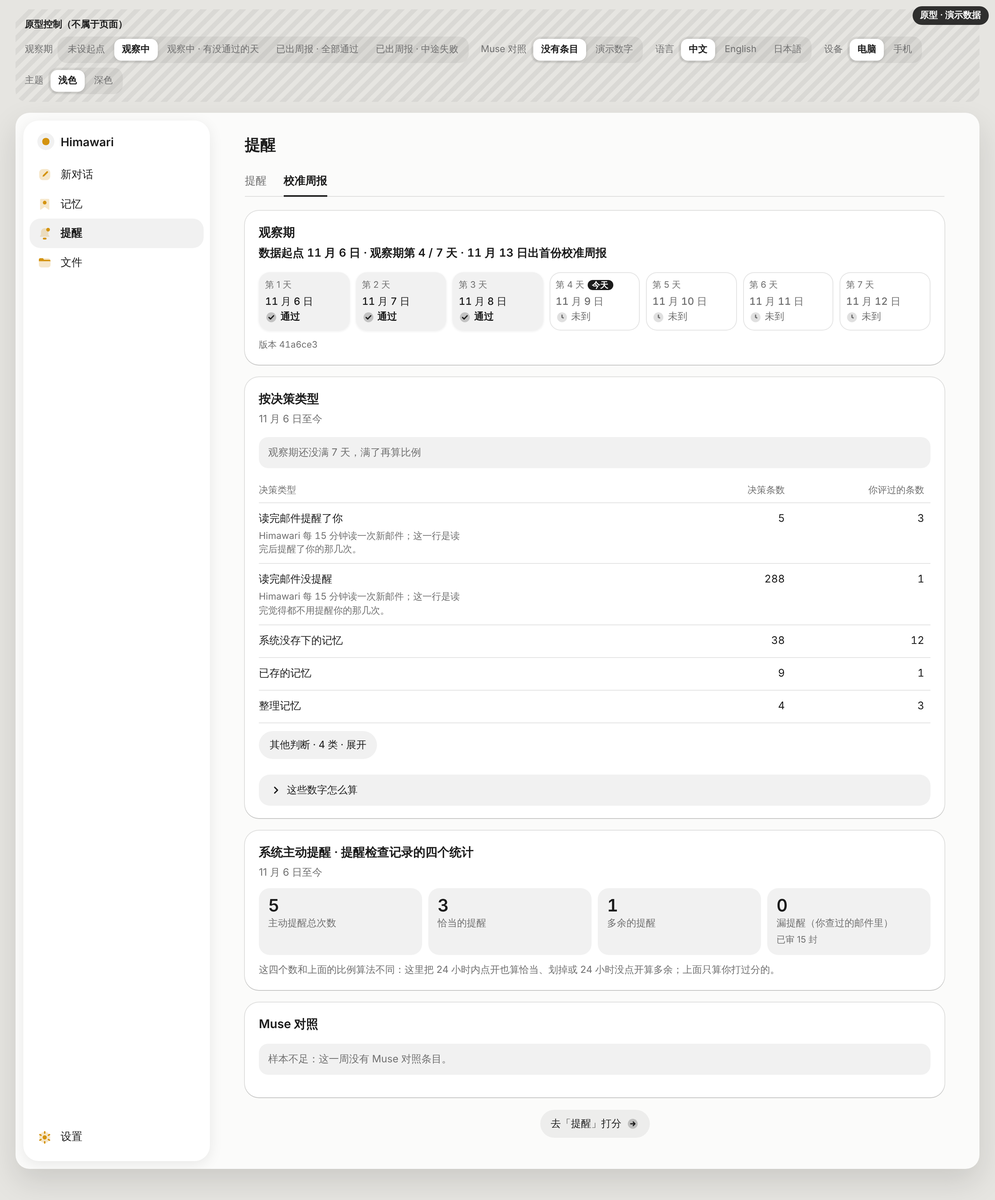
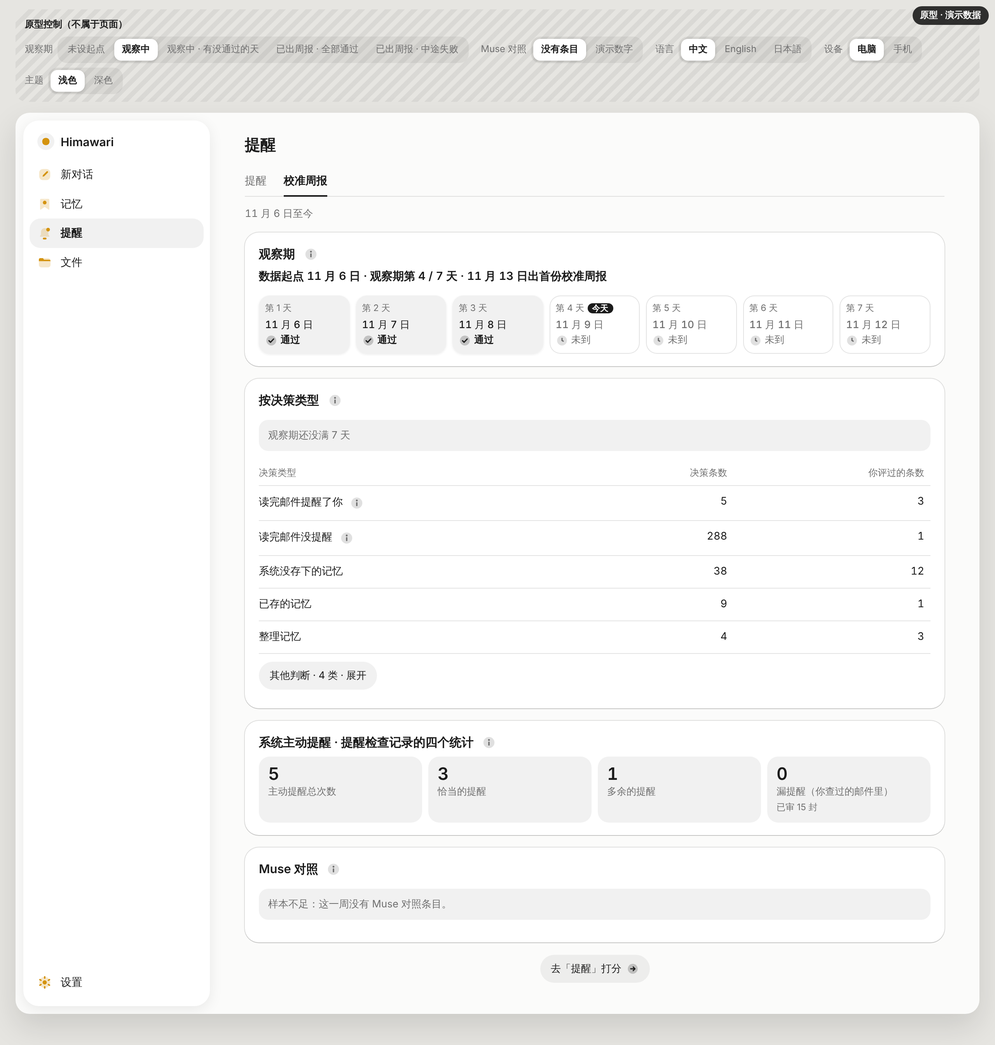
docs(design): P0-8 校准周报原型把解释文字收进 ⓘ（待 Andy 批准）
Andy 指出页面上解释性文字太多，看着乱。原型 v17 改为默认只显示标题、数字和简短状态；
两行 Gmail 决策的说明、四个提醒统计的算法说明、“这些数字怎么算”、配对率定义、观察期说明
和版本号都收进标题旁的 ⓘ（电脑弹小框，手机从底部弹出）；各区块重复的日期行去掉，只在标签
下方显示一次。390 宽窗口 361 种组合、手机模式 330 种组合（每个 ⓘ 都打开）无横向溢出；
电脑弹框 84 种组合都在可见范围内；SHA256SUMS 校验通过。只改原型目录。

Layer-0-tests: none
Fast-mode-checks: 原型自带的溢出和弹框检查，云端容器，基于 84c55d1
Docs: deferred (fast mode)

Claude-Session: https://claude.ai/code/session_014uWGaJaVS6Gc3XFFyc94id

diff --git a/docs/assets/control-center/2026-11-03-v17/weekly-report-prototype.html b/docs/assets/control-center/2026-11-03-v17/weekly-report-prototype.html
@@ -14,6 +14,7 @@ body{background:var(--page);color:var(--tx);font:400 14px/1.55 -apple-system,Bli
 button{font:inherit;color:inherit;border:0;background:none;cursor:pointer;min-height:44px;padding:0 18px;border-radius:999px}
 button:focus-visible{outline:2px solid var(--tx);outline-offset:2px}
 button:focus:not(:focus-visible){outline:none}
+[tabindex="-1"]:focus{outline:none}
 .ic{width:20px;height:20px;flex:none;display:block}
 .banner{position:fixed;top:8px;right:8px;z-index:50;pointer-events:none;background:var(--ac);color:var(--on);font-size:11.5px;font-weight:600;padding:3px 10px;border-radius:999px;opacity:.9}
 .proto{max-width:1240px;margin:0 auto 14px;padding:10px 12px;border-radius:14px;background:repeating-linear-gradient(135deg,var(--fill) 0 6px,transparent 6px 12px);font-size:12px;color:var(--mu)}
@@ -91,7 +92,6 @@ th:first-child,td:first-child{padding-left:0}
 td.num,th.num{text-align:right}
 td .iv{display:block;font-size:11.5px;color:var(--mu)}
 td.few{color:var(--mu)}
-.rd{display:block;font-size:12px;line-height:1.45;color:var(--mu);max-width:22em;margin:2px 0 0;font-weight:400}
 .rs{display:flex;flex-wrap:wrap;gap:6px 32px}
 .rs .r{min-width:0}
 .rl{color:var(--mu);margin-right:6px}
@@ -100,19 +100,25 @@ tr.sub td:first-child{padding-left:14px;color:var(--mu)}
 .otherrow td{padding:8px 0}
 .otherrow .lk{margin-top:2px}
 .tcards{display:none}
-.how{margin:12px 0 0;border-radius:14px;background:var(--fill)}
-.how summary{list-style:none;cursor:pointer;display:flex;align-items:center;gap:6px;padding:0 14px;min-height:40px;font-size:13px}
-.how summary::-webkit-details-marker{display:none}
-.how summary .ic{width:16px;height:16px;transition:transform .15s}
-.how[open] summary .ic{transform:rotate(90deg)}
-.how ul{margin:0;padding:0 16px 12px 34px;font-size:13px;color:var(--mu)}
-.how li{margin:2px 0}
+.ch{display:flex;align-items:center;gap:2px;margin:0 0 6px;min-width:0}
+.ch h2,.ch h3{margin:0;min-width:0}
+.card>.ch h2{font-size:15.5px;font-weight:600}
+.info{width:44px;height:44px;min-height:44px;padding:0;margin:-10px -8px -10px -4px;display:inline-grid;place-items:center;border-radius:50%;color:var(--mu);flex:none;vertical-align:middle}
+.info .ic{width:18px;height:18px}
+.info:hover,.info[aria-expanded=true]{background:var(--fill);color:var(--tx)}
+.rn{display:inline-flex;align-items:center}
+.win{color:var(--mu);font-size:13px;margin:-6px 0 14px;font-variant-numeric:tabular-nums}
+.pop{position:absolute;z-index:55;width:min(340px,calc(100vw - 16px));background:var(--card);border-radius:16px;box-shadow:var(--sh-up);padding:12px 14px;font-size:13px}
+.pop h3,.sheet h3{font-size:14px;margin:0 0 6px;font-weight:600}
+.itext p{margin:0 0 6px;color:var(--mu);font-size:13.5px}
+.itext ul{margin:0 0 6px;padding-left:18px;color:var(--mu);font-size:13.5px}
+.itext li{margin:2px 0}
+.itext .ver{font-size:11.5px;margin:8px 0 0}
 .stats{display:grid;grid-template-columns:repeat(4,minmax(0,1fr));gap:8px}
 .tile{background:var(--fill);border-radius:14px;padding:10px 12px;min-width:0}
 .tile .v{font-size:22px;font-weight:600;font-variant-numeric:tabular-nums;line-height:1.2}
 .tile .l{font-size:12.5px;color:var(--mu);overflow-wrap:anywhere}
 .tile .x{font-size:11.5px;color:var(--mu);margin-top:2px}
-.note{margin:10px 0 0;color:var(--mu);font-size:12.5px}
 .muse{display:grid;grid-template-columns:repeat(5,minmax(0,1fr));gap:8px}
 .musefoot{display:flex;flex-wrap:wrap;gap:4px 18px;margin:10px 0 0;font-size:13px;font-variant-numeric:tabular-nums}
 .empty{background:var(--fill);border-radius:12px;padding:10px 12px;color:var(--mu);font-size:13px}
@@ -211,8 +217,10 @@ tr.sub td:first-child{padding-left:14px;color:var(--mu)}
 <div class="banner" id="banner">原型 · 演示数据</div>
 <div class="proto" id="proto"></div>
 <div id="dev"><div class="screen" id="screen"><div class="frame" id="frame"></div></div><div id="overlay"></div></div>
+<div id="pop" hidden></div>
 <script>
 const G={
+info:'<svg class="ic" viewBox="0 0 24 24" aria-hidden="true"><circle cx="12" cy="12" r="9.5" fill="currentColor" opacity=".22"/><circle cx="12" cy="7.6" r="1.6" fill="currentColor"/><rect x="10.8" y="10.4" width="2.4" height="7" rx="1.2" fill="currentColor"/></svg>',
 check:'<svg class="ic" viewBox="0 0 24 24" aria-hidden="true"><circle cx="12" cy="12" r="9.5" fill="currentColor" opacity=".22"/><path d="M7.5 12.3l3 3 6-6.3" fill="none" stroke="currentColor" stroke-width="2.4" stroke-linecap="round" stroke-linejoin="round"/></svg>',
 fail:'<svg class="ic" viewBox="0 0 24 24" aria-hidden="true"><circle cx="12" cy="12" r="9.5" fill="currentColor" opacity=".22"/><path d="M8.6 8.6l6.8 6.8M15.4 8.6l-6.8 6.8" fill="none" stroke="currentColor" stroke-width="2.4" stroke-linecap="round"/></svg>',
 blocked:'<svg class="ic" viewBox="0 0 24 24" aria-hidden="true"><circle cx="12" cy="12" r="9.5" fill="currentColor" opacity=".22"/><rect x="8.6" y="7.5" width="2.4" height="9" rx="1.2" fill="currentColor"/><rect x="13" y="7.5" width="2.4" height="9" rx="1.2" fill="currentColor"/></svg>',
@@ -270,7 +278,7 @@ zh:{
  ratio:(p,k,n)=>`${p}（${k}/${n}）`,iv:(a,b)=>`区间 ${a}–${b}`,
  few:n=>`样本不足（${n} 条）`,
  other:n=>`其他判断 · ${n} 类`,expand:"展开",collapse:"收起",
- how:"这些数字怎么算",
+
  howItems:["分母是你评过的条数。","每一行只列这类决策可能出现的情况（例如没存下的记忆只会是“不存是对的”或“该存没存”）。","评过的少于 5 条时不算比例，写“样本不足”。","区间是 95% Wilson 区间：按你评过的条数算出的范围，真实比例有 95% 的把握落在里面；评得越多，区间越窄。"],
  typeDesc:{pushed:"Himawari 每 15 分钟读一次新邮件；这一行是读完后提醒了你的那几次。",silent:"Himawari 每 15 分钟读一次新邮件；这一行是读完觉得都不用提醒你的那几次。"},
  types:{pushed:"读完邮件提醒了你",skippedMemory:"系统没存下的记忆",keptMemory:"已存的记忆",consolidation:"整理记忆",silent:"读完邮件没提醒",pendingMemory:"待你确认的记忆",truncation:"回答时没带上的旧内容",degrade:"记忆搜索没生效",externalRead:"外部程序读取记忆"},
@@ -325,7 +333,7 @@ en:{
  ratio:(p,k,n)=>`${p} (${k}/${n})`,iv:(a,b)=>`95% range ${a}–${b}`,
  few:n=>`Too few rated (${n})`,
  other:n=>`Other decisions · ${n} types`,expand:"Show",collapse:"Hide",
- how:"How these numbers are worked out",
+
  howItems:["The denominator is the number you rated.","Each row lists only the outcomes possible for that kind of decision (for example, a memory the system chose not to save can only be “Right not to save” or “Should have saved”).","With fewer than 5 rated, no ratio is shown; it says “Too few rated”.","The range is a 95% Wilson interval: worked out from how many you rated, the true ratio falls inside it with 95% confidence. The more you rate, the narrower it gets."],
  typeDesc:{pushed:"Himawari reads new mail every 15 minutes; these are the reads after which it reminded you.",silent:"Himawari reads new mail every 15 minutes; these are the reads after which nothing needed a reminder."},
  types:{pushed:"Read mail and reminded you",skippedMemory:"Memories the system chose not to save",keptMemory:"Saved memories",consolidation:"Memory tidy-up",silent:"Read mail, no reminder",pendingMemory:"Memories awaiting your confirmation",truncation:"Older content left out of an answer",degrade:"Memory search did not work",externalRead:"Memory read by an outside program"},
@@ -380,7 +388,7 @@ ja:{
  ratio:(p,k,n)=>`${p}（${k}/${n}）`,iv:(a,b)=>`区間 ${a}–${b}`,
  few:n=>`件数不足（${n} 件）`,
  other:n=>`その他の判断 · ${n} 種類`,expand:"開く",collapse:"閉じる",
- how:"この数字の出し方",
+
  howItems:["分母は採点した件数です。","各行には、その種類の判断で起こりうる結果だけを載せます（例：システムが保存しないと判断した記憶は「保存しないのが正しかった」か「保存すべきだった」のどちらかだけ）。","採点が 5 件未満のときは割合を出さず「件数不足」と書きます。","区間は 95% Wilson 区間です。採点した件数から出した範囲で、本当の割合は 95% の確かさでこの中に入ります。採点が多いほど狭くなります。"],
  typeDesc:{pushed:"Himawari は 15 分ごとに新着メールを読みます。読んだ後に通知した回です。",silent:"Himawari は 15 分ごとに新着メールを読みます。読んだ後、通知が必要なものがなかった回です。"},
  types:{pushed:"メールを読んで通知した",skippedMemory:"システムが保存しないと判断した記憶",keptMemory:"保存した記憶",consolidation:"記憶の整理",silent:"メールを読んで通知しなかった",pendingMemory:"確認待ちの記憶",truncation:"回答に入れなかった古い内容",degrade:"記憶検索が働かなかった",externalRead:"外部プログラムによる記憶の読み取り"},
@@ -394,8 +402,11 @@ ja:{
  museDef:"対応づけ率 = 同じメールに対応づけできた項目 ÷ 今週の Muse との対照の項目すべて。",
  goRate:"「リマインダー」で採点する"
 }};
+Object.assign(L.zh,{info:"说明",obsShort:"选一天开始，连续观察 7 天。",badLine:(a,b)=>`${a}失败、${b}没有检查记录`,badMore:"修好后从第二天起重新数 7 天，首份校准周报跟着推后。",notFull:"观察期还没满 7 天",notFullMore:"观察期满 7 天后再按决策类型算比例。",notStarted:"还没开始观察",notStartedMore:"设好数据起点、观察满 7 天后，这里按决策类型算比例。"});
+Object.assign(L.en,{info:"About this",obsShort:"Pick a day to start; it observes 7 days in a row.",badLine:(a,b)=>`${a} failed; ${b} has no check record`,badMore:"Once fixed, the 7 days start over from the next day, and the first calibration report moves later.",notFull:"Observation period not yet 7 days",notFullMore:"Ratios by decision type come once the observation period reaches 7 days.",notStarted:"Observation hasn’t started",notStartedMore:"Once the data start is set and 7 days are observed, ratios by decision type appear here."});
+Object.assign(L.ja,{info:"説明",obsShort:"開始日を選ぶと、7 日間続けて観察します。",badLine:(a,b)=>`${a}は不合格、${b}は確認の記録なし`,badMore:"直したら翌日から 7 日を数え直し、最初の較正レポートもその分遅れます。",notFull:"観察期間はまだ 7 日に達していません",notFullMore:"観察期間が 7 日に達したら、判断の種類ごとの割合を出します。",notStarted:"まだ観察を始めていません",notStartedMore:"データの起点を決めて 7 日間観察すると、ここに判断の種類ごとの割合が出ます。"});
 const LOC={zh:"zh-CN",en:"en",ja:"ja"};
-const ST={device:"desktop",state:"b1",muse:"none",lang:"zh",theme:"light",tab:"report",openDay:null,otherOpen:false,howOpen:false,confirm:false,pick:6,start:6};
+const ST={info:null,device:"desktop",state:"b1",muse:"none",lang:"zh",theme:"light",tab:"report",openDay:null,otherOpen:false,confirm:false,pick:6,start:6};
 const T=()=>L[ST.lang];
 const day=n=>new Date(2026,10,n);
 function fd(n){const d=day(n);if(ST.lang==="zh")return `${d.getMonth()+1} 月 ${d.getDate()} 日`;return new Intl.DateTimeFormat(LOC[ST.lang],{month:ST.lang==="en"?"short":"numeric",day:"numeric"}).format(d)}
@@ -438,10 +449,23 @@ function cellsHTML(d){const t=T();return `<div class="days">${d.cells.map((c,i)=
  return `<button type="button" class="cell ${s}" data-day="${i}" aria-expanded="${ST.openDay===i}">${lab}</button>`}).join("")}</div>`}
 function checksHTML(list){const t=T();return `<ul class="checks">${list.map(([k,key,a,b])=>{const f=t.ck[key];const txt=typeof f==="function"?f(a,b):f;const g=k==="ok"?G.check:k==="fail"?G.fail:G.blocked;return `<li class="${k}">${g}<span>${txt}</span></li>`}).join("")}</ul>`}
 function detailTitle(d,i){const t=T(),c=d.cells[i];return t.detailTitle(i+1,fd(d.start+i),t.st[c[0]])}
+function infoBtn(key){const t=T();return `<button type="button" class="info" data-info="${key}" aria-label="${t.info}" aria-haspopup="dialog" aria-expanded="${ST.info===key}">${G.info}</button>`}
+function head(title,key,tag){return `<div class="ch"><${tag||"h2"}>${title}</${tag||"h2"}>${infoBtn(key)}</div>`}
+function infoData(key){
+ const t=T(),k=stateInfo().kind;
+ if(key==="obs"){const p=[t.obsExplain];if(ST.state==="a")p.push(t.confirmEarliest(fd(6),fd(5)),t.confirmFixed);if(ST.state==="b2")p.push(t.badMore);return {title:t.obsTitle,paras:p,list:[],ver:t.version("41a6ce3")}}
+ if(key==="type"){if(k==="none"||k==="wait")return {title:t.typeTitle,paras:[t.notStartedMore],list:[]};return {title:t.typeTitle,paras:k==="part"?[t.notFullMore]:[],list:t.howItems}}
+ if(key==="stats")return {title:t.statTitle,paras:[t.statNote],list:[]};
+ if(key==="muse")return {title:t.museTitle,paras:[t.museDef],list:[]};
+ if(key.startsWith("row:")){const x=key.slice(4);return {title:t.types[x],paras:[t.typeDesc[x]],list:[]}}
+ return null;
+}
+function infoBody(d){return `${d.paras.map(p=>`<p>${p}</p>`).join("")}${d.list.length?`<ul>${d.list.map(x=>`<li>${x}</li>`).join("")}</ul>`:""}${d.ver?`<p class="ver">${d.ver}</p>`:""}`}
+function windowLine(){const t=T(),k=stateInfo().kind;if(k==="done"){const d=DAYS[ST.state];return t.scopeDone(fd(d.start),fd(d.start+6))}if(k==="part")return t.scopeIn(fd(DAYS[ST.state].start));return t.scopeLast7}
 function obsCard(){
- const t=T();let h=`<section class="card"><h2>${t.obsTitle}</h2>`;
+ const t=T();let h=`<section class="card">${head(t.obsTitle,"obs")}`;
  if(ST.state==="a"){
-  h+=`<p class="sub">${t.obsExplain}</p><div class="datef"><label id="sl">${t.startLabel}</label><span class="stepper" role="group" aria-labelledby="sl"><button type="button" data-step="-1" aria-label="${t.prevDay}" ${ST.pick<=6?"disabled":""}>${G.chevl}</button><output>${fd(ST.pick)} · ${fw(ST.pick)}</output><button type="button" data-step="1" aria-label="${t.nextDay}">${G.chev}</button></span><button type="button" class="bp" data-act="start">${t.startBtn}</button></div>`;
+  h+=`<p class="sub">${t.obsShort}</p><div class="datef"><label id="sl">${t.startLabel}</label><span class="stepper" role="group" aria-labelledby="sl"><button type="button" data-step="-1" aria-label="${t.prevDay}" ${ST.pick<=6?"disabled":""}>${G.chevl}</button><output>${fd(ST.pick)} · ${fw(ST.pick)}</output><button type="button" data-step="1" aria-label="${t.nextDay}">${G.chev}</button></span><button type="button" class="bp" data-act="start">${t.startBtn}</button></div>`;
  } else if(ST.state==="b0"){
   h+=`<p class="headline">${t.headWait(fd(ST.start),fd(ST.start+7))}</p>`;
   h+=cellsHTML({start:ST.start,today:5,cells:Array(7).fill(["future"])});
@@ -456,40 +480,38 @@ function obsCard(){
   if(ST.state==="c1")h+=`<div class="line ok">${G.check}<span>${t.allPass}</span></div>`;
   if(ST.state==="c2")h+=`<div class="line warn">${G.fail}<span>${t.restart(fd(9),4)}</span></div>`;
  }
- h+=`<p class="ver">${t.version("41a6ce3")}</p></section>`;return h;
+ return h+`</section>`;
 }
 function ratioCells(x,r){const t=T();const [,rev,ks]=r;if(rev<5)return {few:t.few(rev)};const labels=t.rl[LBL[x]];return {vals:ks.map((k,i)=>{const [lo,hi]=wilson(k,rev);return {label:labels[i],main:t.ratio(pct(k/rev),k,rev),iv:t.iv(pct(lo),pct(hi))}})}}
+function rowName(x){const t=T();return t.typeDesc[x]?`<span class="rn">${t.types[x]}${infoBtn("row:"+x)}</span>`:t.types[x]}
+function cardHead(x){const t=T();return t.typeDesc[x]?head(t.types[x],"row:"+x,"h3"):`<h3>${t.types[x]}</h3>`}
 function tableCard(){
  const t=T(),k=stateInfo().kind,nf=n=>new Intl.NumberFormat(LOC[ST.lang]).format(n);
- let h=`<section class="card"><h2>${t.typeTitle}</h2>`;
+ let h=`<section class="card">${head(t.typeTitle,"type")}`;
  if(k==="none"||k==="wait"){h+=`<p class="empty">${t.notStarted}</p></section>`;return h}
- const d=DAYS[ST.state];
  const rows=MAIN.map(x=>[x,0]).concat(ST.otherOpen?OTHER.map(x=>[x,1]):[]);
  if(k==="part"){
-  h+=`<p class="sub">${t.scopeIn(fd(d.start))}</p><p class="empty">${t.notFull}</p>`;
-  h+=`<table><thead><tr><th>${t.cols[0]}</th><th class="num">${t.cols[1]}</th><th class="num">${t.cols[2]}</th></tr></thead><tbody>${rows.map(([x,sub])=>`<tr class="${sub?"sub":""}"><td>${t.types[x]}${t.typeDesc[x]?`<span class="rd">${t.typeDesc[x]}</span>`:""}</td><td class="num">${nf(TD.part[x][0])}</td><td class="num">${nf(TD.part[x][1])}</td></tr>`).join("")}<tr class="otherrow"><td colspan="3">${otherBtn()}</td></tr></tbody></table>`;
-  h+=`<div class="tcards">${rows.map(([x])=>`<div class="tc"><h3>${t.types[x]}</h3>${t.typeDesc[x]?`<p class="rd">${t.typeDesc[x]}</p>`:""}<div class="m"><span>${t.cols[1]}</span><span>${nf(TD.part[x][0])}</span></div><div class="m"><span>${t.cols[2]}</span><span>${nf(TD.part[x][1])}</span></div></div>`).join("")}${otherBtn()}</div>`;
-  h+=howBlock()+`</section>`;return h;
+  h+=`<p class="empty">${t.notFull}</p>`;
+  h+=`<table><thead><tr><th>${t.cols[0]}</th><th class="num">${t.cols[1]}</th><th class="num">${t.cols[2]}</th></tr></thead><tbody>${rows.map(([x,sub])=>`<tr class="${sub?"sub":""}"><td>${rowName(x)}</td><td class="num">${nf(TD.part[x][0])}</td><td class="num">${nf(TD.part[x][1])}</td></tr>`).join("")}<tr class="otherrow"><td colspan="3">${otherBtn()}</td></tr></tbody></table>`;
+  h+=`<div class="tcards">${rows.map(([x])=>`<div class="tc">${cardHead(x)}<div class="m"><span>${t.cols[1]}</span><span>${nf(TD.part[x][0])}</span></div><div class="m"><span>${t.cols[2]}</span><span>${nf(TD.part[x][1])}</span></div></div>`).join("")}${otherBtn()}</div>`;
+  return h+`</section>`;
  }
- h+=`<p class="sub">${t.scopeDone(fd(d.start),fd(d.start+6))}</p>`;
- h+=`<table><thead><tr><th>${t.cols[0]}</th><th class="num">${t.cols[1]}</th><th class="num">${t.cols[2]}</th><th>${t.cols[3]}</th></tr></thead><tbody>${rows.map(([x,sub])=>{const r=TD.done[x],rc=ratioCells(x,r);return `<tr class="${sub?"sub":""}"><td>${t.types[x]}${t.typeDesc[x]?`<span class="rd">${t.typeDesc[x]}</span>`:""}</td><td class="num">${nf(r[0])}</td><td class="num">${nf(r[1])}</td>${rc.few?`<td class="few">${rc.few}</td>`:`<td><div class="rs">${rc.vals.map(v=>`<div class="r"><span class="rl">${v.label}</span>${v.main}<span class="iv">${v.iv}</span></div>`).join("")}</div></td>`}</tr>`}).join("")}<tr class="otherrow"><td colspan="4">${otherBtn()}</td></tr></tbody></table>`;
- h+=`<div class="tcards">${rows.map(([x])=>{const r=TD.done[x],rc=ratioCells(x,r);return `<div class="tc"><h3>${t.types[x]}</h3>${t.typeDesc[x]?`<p class="rd">${t.typeDesc[x]}</p>`:""}<div class="m"><span>${t.cols[1]}</span><span>${nf(r[0])}</span></div><div class="m"><span>${t.cols[2]}</span><span>${nf(r[1])}</span></div>${rc.few?`<div class="m few"><span>${t.cols[3]}</span><span>${rc.few}</span></div>`:rc.vals.map(v=>`<div class="m"><span>${v.label}</span><span>${v.main}<span class="iv">${v.iv}</span></span></div>`).join("")}</div>`}).join("")}${otherBtn()}</div>`;
- h+=howBlock()+`</section>`;return h;
+ h+=`<table><thead><tr><th>${t.cols[0]}</th><th class="num">${t.cols[1]}</th><th class="num">${t.cols[2]}</th><th>${t.cols[3]}</th></tr></thead><tbody>${rows.map(([x,sub])=>{const r=TD.done[x],rc=ratioCells(x,r);return `<tr class="${sub?"sub":""}"><td>${rowName(x)}</td><td class="num">${nf(r[0])}</td><td class="num">${nf(r[1])}</td>${rc.few?`<td class="few">${rc.few}</td>`:`<td><div class="rs">${rc.vals.map(v=>`<div class="r"><span class="rl">${v.label}</span>${v.main}<span class="iv">${v.iv}</span></div>`).join("")}</div></td>`}</tr>`}).join("")}<tr class="otherrow"><td colspan="4">${otherBtn()}</td></tr></tbody></table>`;
+ h+=`<div class="tcards">${rows.map(([x])=>{const r=TD.done[x],rc=ratioCells(x,r);return `<div class="tc">${cardHead(x)}<div class="m"><span>${t.cols[1]}</span><span>${nf(r[0])}</span></div><div class="m"><span>${t.cols[2]}</span><span>${nf(r[1])}</span></div>${rc.few?`<div class="m few"><span>${t.cols[3]}</span><span>${rc.few}</span></div>`:rc.vals.map(v=>`<div class="m"><span>${v.label}</span><span>${v.main}<span class="iv">${v.iv}</span></span></div>`).join("")}</div>`}).join("")}${otherBtn()}</div>`;
+ return h+`</section>`;
 }
 function otherBtn(){const t=T();return `<button type="button" class="lk" data-act="other" aria-expanded="${ST.otherOpen}">${t.other(OTHER.length)} · ${ST.otherOpen?t.collapse:t.expand}</button>`}
-function howBlock(){const t=T();return `<details class="how" ${ST.howOpen?"open":""}><summary>${G.chev}${t.how}</summary><ul>${t.howItems.map(x=>`<li>${x}</li>`).join("")}</ul></details>`}
 function statsCard(){
  const t=T(),k=stateInfo().kind,key=k==="done"?"done":k==="part"?"part":"none",v=STATS[key],nf=n=>new Intl.NumberFormat(LOC[ST.lang]).format(n);
- let scope=t.scopeLast7;if(k==="done"){const d=DAYS[ST.state];scope=t.scopeDone(fd(d.start),fd(d.start+6))}if(k==="part")scope=t.scopeIn(fd(DAYS[ST.state].start));
- return `<section class="card"><h2>${t.statTitle}</h2><p class="sub">${scope}</p><div class="stats"><div class="tile"><div class="v">${nf(v[0])}</div><div class="l">${t.m.spoke}</div></div><div class="tile"><div class="v">${nf(v[1])}</div><div class="l">${t.m.hits}</div></div><div class="tile"><div class="v">${nf(v[2])}</div><div class="l">${t.m.misfires}</div></div><div class="tile"><div class="v">${nf(v[3])}</div><div class="l">${t.m.missed}</div><div class="x">${t.m.reviewed(nf(v[4]))}</div></div></div><p class="note">${t.statNote}</p></section>`;
+ return `<section class="card">${head(t.statTitle,"stats")}<div class="stats"><div class="tile"><div class="v">${nf(v[0])}</div><div class="l">${t.m.spoke}</div></div><div class="tile"><div class="v">${nf(v[1])}</div><div class="l">${t.m.hits}</div></div><div class="tile"><div class="v">${nf(v[2])}</div><div class="l">${t.m.misfires}</div></div><div class="tile"><div class="v">${nf(v[3])}</div><div class="l">${t.m.missed}</div><div class="x">${t.m.reviewed(nf(v[4]))}</div></div></div></section>`;
 }
 function museCard(){
  const t=T(),nf=n=>new Intl.NumberFormat(LOC[ST.lang]).format(n);
- let h=`<section class="card"><h2>${t.museTitle}</h2>`;
+ let h=`<section class="card">${head(t.museTitle,"muse")}`;
  if(ST.muse==="none"){h+=`<p class="empty">${t.museEmpty}</p></section>`;return h}
  const m=MUSE,total=m.both+m.museOnly+m.himaOnly+m.neither+m.noRec+m.unpaired,paired=total-m.unpaired;
  h+=`<div class="muse">${["both","museOnly","himaOnly","neither","noRec"].map(x=>`<div class="tile"><div class="v">${nf(m[x])}</div><div class="l">${t.mu[x]}</div></div>`).join("")}</div>`;
- h+=`<div class="musefoot"><span>${t.mu.unpaired} <b>${nf(m.unpaired)}</b></span><span>${t.mu.rate} <b>${t.ratio(pct(paired/total),paired,total)}</b></span></div><p class="note">${t.museDef}</p></section>`;
+ h+=`<div class="musefoot"><span>${t.mu.unpaired} <b>${nf(m.unpaired)}</b></span><span>${t.mu.rate} <b>${t.ratio(pct(paired/total),paired,total)}</b></span></div></section>`;
  return h;
 }
 function isPhone(){return ST.device==="phone"||window.matchMedia("(max-width:640px)").matches}
@@ -498,35 +520,42 @@ function renderFrame(){
  document.getElementById("banner").textContent=t.banner;
  let body;
  if(ST.tab==="rem")body=`<p class="stub">${t.stub}</p>`;
- else body=obsCard()+tableCard()+statsCard()+museCard()+`<div class="foot"><button type="button" class="lk" data-act="goRem">${t.goRate}${G.arrow}</button></div>`;
+ else body=`<p class="win">${windowLine()}</p>`+obsCard()+tableCard()+statsCard()+museCard()+`<div class="foot"><button type="button" class="lk" data-act="goRem">${t.goRate}${G.arrow}</button></div>`;
  document.getElementById("frame").innerHTML=`${side()}<main class="main"><div class="inner"><div class="top"><button type="button" class="rb" aria-label="menu">${G.menu}</button><b class="ttl">${t.title}</b><span class="rb ghost"></span></div><h1>${t.title}</h1><div class="tabs" role="tablist"><button type="button" role="tab" data-tab="rem" aria-selected="${ST.tab==="rem"}">${t.tabRem}</button><button type="button" role="tab" data-tab="report" aria-selected="${ST.tab==="report"}">${t.tabRep}</button></div>${body}</div></main>`;
  renderOverlay();
 }
 function renderOverlay(){
- const t=T(),o=document.getElementById("overlay");
+ const t=T(),o=document.getElementById("overlay"),pop=document.getElementById("pop");pop.innerHTML="";pop.hidden=true;
  if(ST.confirm){o.innerHTML=`<div class="scrim" data-act="cancel"></div><div class="dlg" role="dialog" aria-modal="true" tabindex="-1"><div class="grab"></div><h3>${t.confirmTitle(fd(ST.pick))}</h3><p class="strong">${t.confirmFixed}</p><p>${t.confirmEarliest(fd(6),fd(5))}</p><div class="br"><button type="button" class="bs" data-act="cancel">${t.cancel}</button><button type="button" class="bp" data-act="ok">${t.confirm}</button></div></div>`;o.querySelector(".dlg").focus();return}
- if(ST.openDay!==null&&isPhone()&&DAYS[ST.state]){const d=DAYS[ST.state],c=d.cells[ST.openDay];o.innerHTML=`<div class="scrim" data-act="closeDay"></div><div class="sheet" role="dialog" aria-modal="true" tabindex="-1"><div class="grab"></div><h3>${detailTitle(d,ST.openDay)}</h3>${checksHTML(c[1])}<button type="button" class="bs wide" data-act="closeDay">${t.closeSheet}</button></div>`;o.querySelector(".sheet").focus();return}
+ const d=ST.info&&ST.tab==="report"?infoData(ST.info):null;
+ if(d&&isPhone()){o.innerHTML=`<div class="scrim" data-act="closeInfo"></div><div class="sheet" role="dialog" aria-modal="true" tabindex="-1"><div class="grab"></div><h3>${d.title}</h3><div class="itext">${infoBody(d)}</div><button type="button" class="bs wide" data-act="closeInfo">${t.closeSheet}</button></div>`;o.querySelector(".sheet").focus();return}
+ if(d){const btn=[...document.querySelectorAll(`[data-info="${ST.info}"]`)].find(b=>b.offsetParent!==null);if(btn){pop.hidden=false;pop.innerHTML=`<div class="pop" role="dialog" tabindex="-1"><h3>${d.title}</h3><div class="itext">${infoBody(d)}</div></div>`;const el=pop.firstChild,r=btn.getBoundingClientRect(),w=el.offsetWidth;el.style.top=(r.bottom+window.scrollY+2)+"px";el.style.left=Math.max(8,Math.min(r.left+window.scrollX-12,document.documentElement.clientWidth-w-8))+"px";el.focus({preventScroll:true})}}
+ if(ST.openDay!==null&&isPhone()&&DAYS[ST.state]){const dd=DAYS[ST.state],c=dd.cells[ST.openDay];o.innerHTML=`<div class="scrim" data-act="closeDay"></div><div class="sheet" role="dialog" aria-modal="true" tabindex="-1"><div class="grab"></div><h3>${detailTitle(dd,ST.openDay)}</h3>${checksHTML(c[1])}<button type="button" class="bs wide" data-act="closeDay">${t.closeSheet}</button></div>`;o.querySelector(".sheet").focus();return}
  o.innerHTML="";
 }
 function render(){renderProto();renderFrame()}
 document.addEventListener("click",e=>{
- const p=e.target.closest("[data-p]");if(p){ST[p.dataset.p]=p.dataset.v;if(p.dataset.p==="state"){ST.openDay=null;ST.confirm=false;ST.tab="report"}render();return}
- const tb=e.target.closest("[data-tab]");if(tb){ST.tab=tb.dataset.tab;ST.openDay=null;render();return}
+ let closed=false;if(ST.info&&!e.target.closest(".pop,.sheet,[data-info]")){ST.info=null;closed=true}
+ const p=e.target.closest("[data-p]");if(p){ST[p.dataset.p]=p.dataset.v;if(p.dataset.p==="state"){ST.openDay=null;ST.confirm=false;ST.info=null;ST.tab="report"}render();return}
+ const inf=e.target.closest("[data-info]");if(inf){ST.info=ST.info===inf.dataset.info?null:inf.dataset.info;ST.openDay=null;render();return}
+ const tb=e.target.closest("[data-tab]");if(tb){ST.tab=tb.dataset.tab;ST.openDay=null;ST.info=null;render();return}
  const dy=e.target.closest("[data-day]");if(dy){const i=+dy.dataset.day;ST.openDay=ST.openDay===i?null:i;render();return}
  const st=e.target.closest("[data-step]");if(st){ST.pick=Math.max(6,ST.pick+ +st.dataset.step);render();return}
- const a=e.target.closest("[data-act]");if(!a)return;const act=a.dataset.act;
+ const a=e.target.closest("[data-act]");if(!a){if(closed)render();return}const act=a.dataset.act;
  if(act==="start")ST.confirm=true;
  if(act==="cancel")ST.confirm=false;
  if(act==="ok"){ST.confirm=false;ST.start=ST.pick;ST.state="b0"}
  if(act==="closeDay")ST.openDay=null;
+ if(act==="closeInfo")ST.info=null;
  if(act==="other")ST.otherOpen=!ST.otherOpen;
  if(act==="goRem"){ST.tab="rem";window.scrollTo(0,0);document.getElementById("screen").scrollTop=0}
  render();
 });
-document.addEventListener("toggle",e=>{if(e.target.classList&&e.target.classList.contains("how"))ST.howOpen=e.target.open},true);
-document.addEventListener("keydown",e=>{if(e.key==="Escape"&&(ST.confirm||ST.openDay!==null)){ST.confirm=false;ST.openDay=null;render()}});
+document.addEventListener("keydown",e=>{if(e.key==="Escape"&&(ST.confirm||ST.openDay!==null||ST.info)){ST.confirm=false;ST.openDay=null;ST.info=null;render()}});
 window.matchMedia("(max-width:640px)").addEventListener("change",()=>renderFrame());
-const q=new URLSearchParams(location.search);["device","state","muse","lang","theme","tab"].forEach(k=>{if(q.get(k))ST[k]=q.get(k)});if(q.get("day"))ST.openDay=+q.get("day");if(q.get("other"))ST.otherOpen=true;if(q.get("how"))ST.howOpen=true;if(q.get("confirm"))ST.confirm=true;
+window.addEventListener("resize",()=>{if(ST.info&&!isPhone())renderOverlay()});
+document.getElementById("screen").addEventListener("scroll",()=>{if(ST.info&&!isPhone())renderOverlay()});
+const q=new URLSearchParams(location.search);["device","state","muse","lang","theme","tab","info"].forEach(k=>{if(q.get(k))ST[k]=q.get(k)});if(q.get("day"))ST.openDay=+q.get("day");if(q.get("other"))ST.otherOpen=true;if(q.get("confirm"))ST.confirm=true;
 render();
 </script>
 </body>
